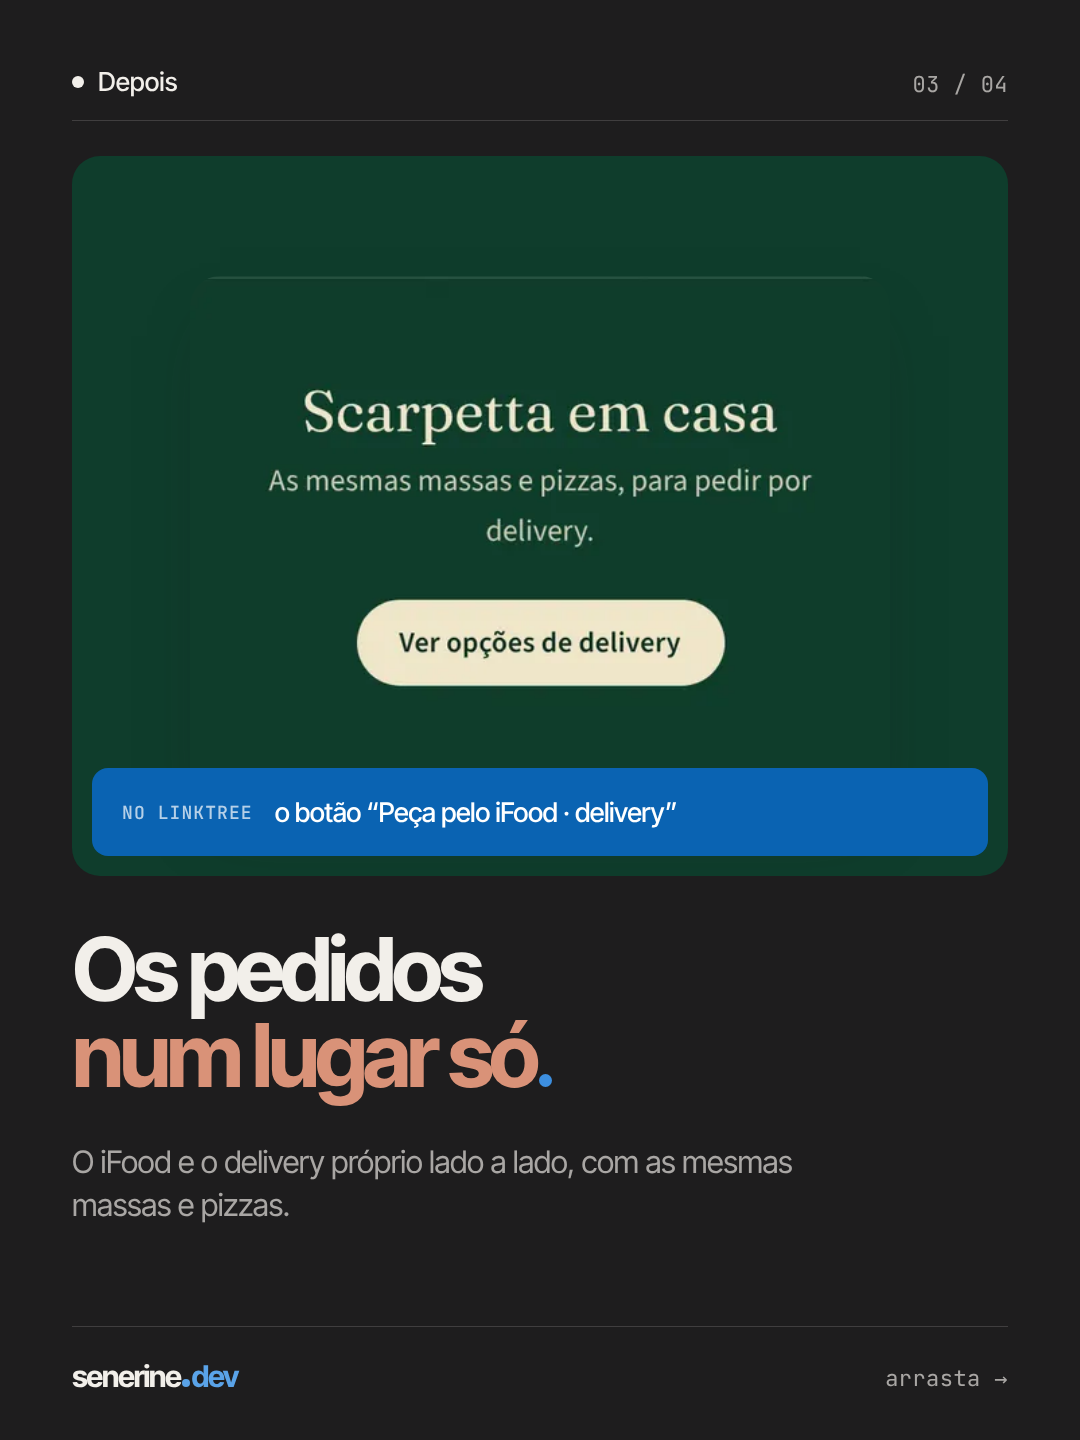
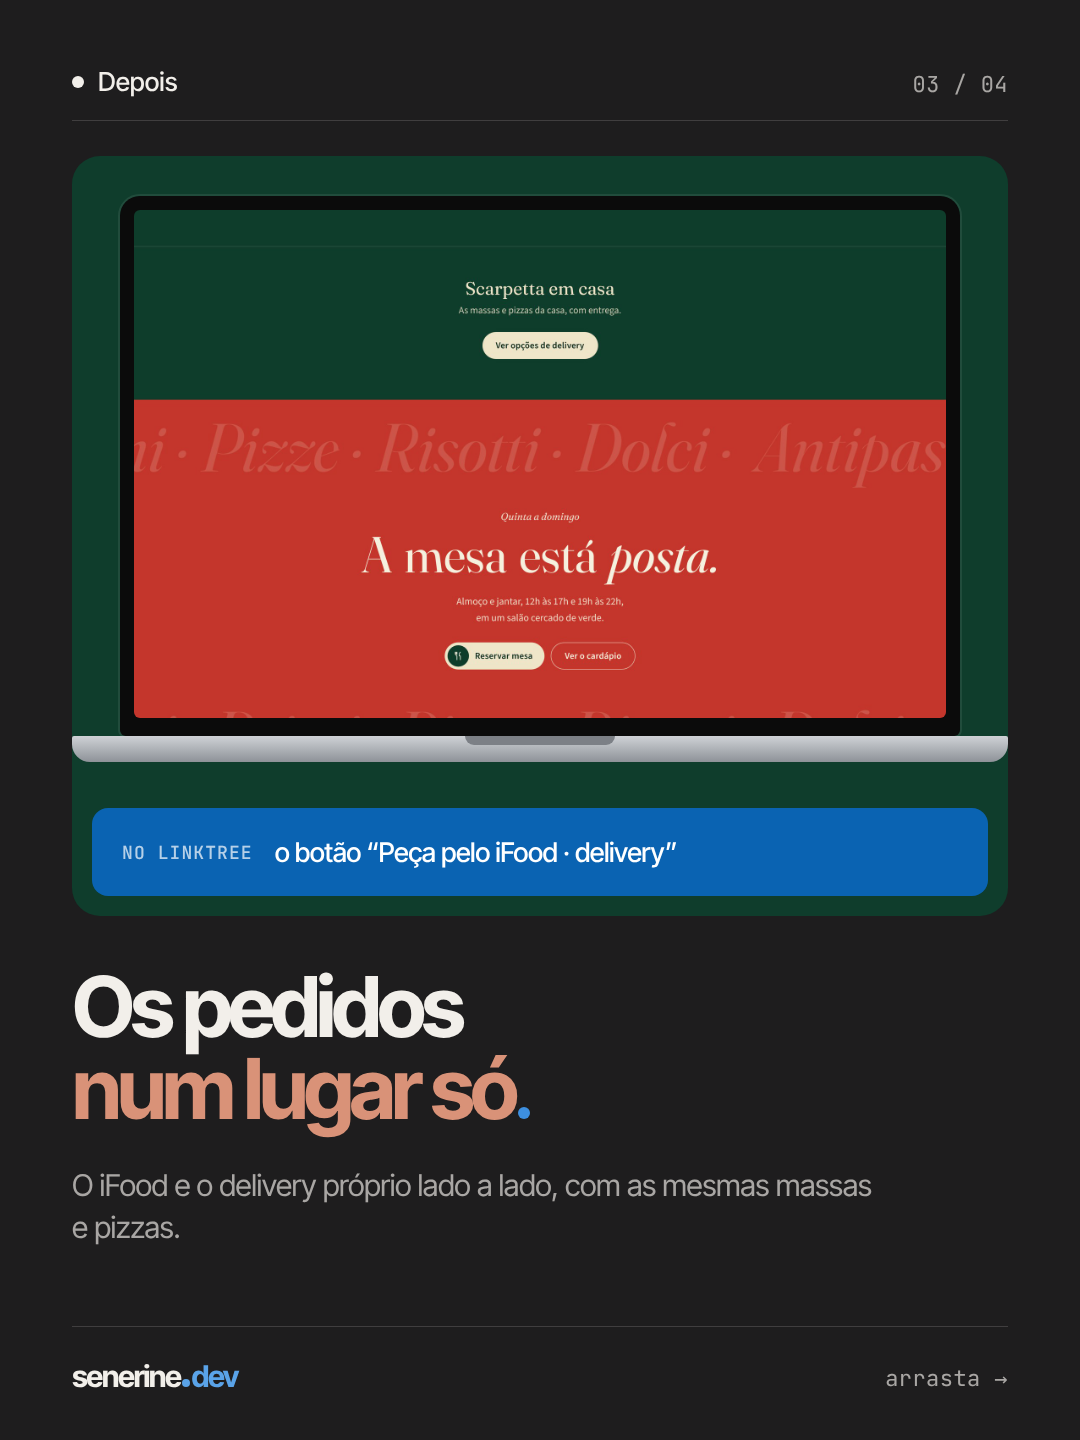
Case Scarpetta com o site num computador, maior no cartão
Capturas 1440x900 do site rodando local, no lugar das telas de celular.

Claude-Session: https://claude.ai/code/session_01P2gMEPFx4h5Snu2b9VrmuT

diff --git a/modelos/posts/scarpetta-case.py b/modelos/posts/scarpetta-case.py
@@ -20,18 +20,25 @@ body { width:1080px; background:#000; font-family:"Inter Tight",sans-serif; }
 .logo span { color:#5aa3e8; }
 .logo i { display:inline-block; width:8px; height:8px; border-radius:50%; background:#5aa3e8; margin:0 1px 0 2px; }
 .swipe { right:72px; top:1364px; color:var(--muted); }
-.card { left:72px; right:72px; top:156px; height:720px; border-radius:28px; overflow:hidden; background:#f2efea; color:#1e1d1e; }
+.card { left:72px; right:72px; top:156px; height:760px; border-radius:28px; overflow:hidden; background:#f2efea; color:#1e1d1e; }
 .card > * { position:absolute; }
 .band { left:20px; right:20px; bottom:20px; height:88px; border-radius:16px; background:var(--blue); color:#fff; display:flex; align-items:center; gap:22px; padding:0 30px; font-size:27px; font-weight:500; letter-spacing:-.02em; z-index:10; }
 .band .mono { font-size:18px; letter-spacing:.06em; text-transform:uppercase; opacity:.7; flex:none; }
-.t { left:72px; right:72px; top:926px; font-size:88px; font-weight:700; line-height:.98; letter-spacing:-.055em; }
+.t { left:72px; right:72px; top:966px; font-size:84px; font-weight:700; line-height:.98; letter-spacing:-.055em; }
 .t em { font-style:normal; color:var(--warm); }
 .dot { display:inline-block; width:.15em; height:.15em; border-radius:50%; background:#3d8fe0; margin-left:.04em; }
-.p { left:72px; width:820px; top:1140px; font-size:31px; line-height:1.4; color:var(--muted); letter-spacing:-.015em; }
+.p { left:72px; width:820px; top:1164px; font-size:30px; line-height:1.4; color:var(--muted); letter-spacing:-.015em; }
 .scr { border-radius:30px; overflow:hidden; box-shadow:0 30px 60px -30px rgba(30,29,30,.55); }
 .scr img { position:absolute; left:0; display:block; }
 .ui { font-family:"Inter Tight",sans-serif; }
 .scr img { width:100%; top:0; }
+.laptop { z-index:2; }
+.laptop .tela { position:relative; background:#0b0b0b; border-radius:20px 20px 6px 6px; padding:14px 14px 18px; outline:2px solid rgba(255,255,255,.08); }
+.laptop .tela img { display:block; width:100%; border-radius:6px; }
+.laptop .base { position:relative; height:26px; margin:0 -48px; border-radius:2px 2px 18px 18px; background:linear-gradient(#cfd2d6,#8e9298); }
+.laptop .base::before { content:""; position:absolute; left:50%; top:0; width:150px; height:9px; margin-left:-75px; border-radius:0 0 10px 10px; background:#7c8086; }
+.phone { position:absolute; z-index:3; border-radius:40px; padding:9px; background:#0b0b0b; outline:2px solid rgba(255,255,255,.1); }
+.phone img { display:block; width:100%; border-radius:32px; }
 .cap { font-family:"JetBrains Mono",monospace; font-size:18px; letter-spacing:.06em; text-transform:uppercase; color:#efe5c8; opacity:.75; }
 </style></head><body>
 '''
@@ -68,11 +75,20 @@ def centro(src, w=420, h=600):
     return tela(src, (936 - w) // 2, 40, w, h)
 
 
+def laptop(img, w=840, top=40):
+    """O site no computador: captura real a 1440x900 dentro de uma tela com base."""
+    return f'<div class="laptop" style="left:{(936 - w) // 2}px;top:{top}px;width:{w}px"><div class="tela"><img src="{C}desktop-{img}.jpg"></div><div class="base"></div></div>'
+
+
+def celular(src, left, top, w, extra=""):
+    return f'<div class="phone" style="left:{left}px;top:{top}px;width:{w}px;{extra}"><img src="{C}{src}"></div>'
+
+
 out = [HEAD.replace('href="../../fontes/fontes.css"', 'href="../../fontes/fontes.css"')]
 
 # 1 · capa: o antes e o depois lado a lado no cartão verde
 out.append(shell(1, "Case · Scarpetta Cucina", "senerine.dev", f"""<div class="card" style="background:{VERDE}">
-    {tela("linktree-sem-cidade.png", 70, 40, 360, 600, "filter:grayscale(1);opacity:.8")}{tela("site.webp", 506, 40, 360, 600)}
+    {laptop("topo", 820, 40)}{celular("linktree-sem-cidade.png", 30, 300, 210, "filter:grayscale(1);rotate:-6deg")}
     <div class="band"><span class="mono">Cliente real</span><span>Cozinha italiana afetiva.</span></div></div>
   <h2 class="t">Do Linktree ao site<br><em>com a cara da casa</em><span class="dot"></span></h2>
   <p class="p">Como o link da bio da Scarpetta virou um site com cardápio, reserva e o salão.</p>"""))
@@ -86,25 +102,25 @@ out.append(shell(2, "Índice", "4 trocas", f"""<h2 class="t" style="top:170px">C
   <p class="p" style="top:1080px">Nada do que o cliente já usava se perdeu. Só mudou de casa.</p>"""))
 
 # 3 · antes
-out.append(detail(3, "Antes", "o link da bio", f'<div style="position:absolute;inset:0;background:#e9ebef"></div>' + centro("linktree-sem-cidade.png"), "Antes",
+out.append(detail(3, "Antes", "o link da bio", f'<div style="position:absolute;inset:0;background:#e9ebef"></div>' + celular("linktree-sem-cidade.png", 298, 40, 340), "Antes",
     "Botões cinza, sem prato e sem foto.", "O link da bio<br>era <em>um Linktree</em>",
     "Uma lista igual à de qualquer perfil. Cada toque mandava o cliente pra outro lugar.", PAPEL))
 
 # 4 a 7 · as trocas
 trocas = [
-    ("Reservas", "reserva.webp", "A reserva<br><em>chega pronta</em>", "O cliente escolhe dia, horário e pessoas, e o WhatsApp da casa recebe a mensagem completa."),
-    ("Menu", "cardapio.webp", "O cardápio<br><em>com foto e preço</em>", "Pratos com foto, descrição e preço, separados por categoria, com os destaques da casa no topo."),
-    ("Peça pelo iFood · delivery", "delivery.webp", "Os pedidos<br><em>num lugar só</em>", "O iFood e o delivery próprio lado a lado, com as mesmas massas e pizzas."),
-    ("Eventos", "eventos.webp", "Eventos<br><em>com orçamento</em>", "As ocasiões, como o menu é servido e o pedido de orçamento por WhatsApp ou e-mail."),
+    ("Reservas", "reserva", "A reserva<br><em>chega pronta</em>", "O cliente escolhe dia, horário e pessoas, e o WhatsApp da casa recebe a mensagem completa."),
+    ("Menu", "cardapio", "O cardápio<br><em>com foto e preço</em>", "Pratos com foto, descrição e preço, separados por categoria, com os destaques da casa no topo."),
+    ("Peça pelo iFood · delivery", "delivery", "Os pedidos<br><em>num lugar só</em>", "O iFood e o delivery próprio lado a lado, com as mesmas massas e pizzas."),
+    ("Eventos", "eventos", "Eventos<br><em>com orçamento</em>", "As ocasiões, como o menu é servido e o pedido de orçamento por WhatsApp ou e-mail."),
 ]
 for i, (de, img, t, p) in enumerate(trocas):
-    arte = (tela(img, 118, 120, 700, 538) if img == "delivery.webp" else centro(img))
+    arte = laptop(img)
     out.append(detail(4 + i, "Depois", f"{i + 1:02d} / 04", arte, "No Linktree", f"o botão “{de}”", t, p))
 
 # 8 · o que o linktree não mostrava
-out.append(detail(8, "Depois", "bônus", tela("executivo.webp", 70, 40, 380, 600) + tela("salao.webp", 486, 40, 380, 600), "Antes",
-    "Nenhum prato, nenhuma foto do salão.", "O prato, o preço<br><em>e o salão</em>",
-    "O menu executivo da semana e o salão no meio da mata, antes do primeiro contato.", NOITE))
+out.append(detail(8, "Depois", "bônus", laptop("salao"), "Antes",
+    "Nenhuma foto do salão nem dos pratos.", "O salão<br><em>no meio da mata</em>",
+    "As fotos do lugar, o menu executivo da semana e os pratos, antes do primeiro contato.", NOITE))
 
 # 9 · ficha técnica e decisões, como nos cases do portfólio
 dec = ["A reserva monta a mensagem pronta pro WhatsApp da casa.", "Aviso de aberto ou fechado agora, turno por turno.",

diff --git a/formatos/post.md b/formatos/post.md
@@ -46,7 +46,7 @@ Renderizar: `node modelos/render.mjs <html> <saida> 1080 1440 <n>` (acrescente `
 - Grade rígida: tudo alinhado na mesma margem e nas mesmas alturas.
 
 ## Não funciona
-- **Case de cliente bagunçado** (Scarpetta, primeira versão): celulares girados, rabiscos, botões riscados e notas à mão espalhadas: "muito bagunçado, deixe mais bonitinho". Mesmo a versão limpa não bastou: **case de cliente usa o padrão dos primeiros posts / do portfólio** (`scarpetta-case.py`, base `senerine-capturas.py`): fundo escuro da senerine, cabeçalho com rótulo e fólio, cartão com a captura real na cor da casa, faixa azul com rótulo, título com o ponto, texto, rodapé com logo; índice numerado, ficha técnica com decisões e o bloco de contato com a foto no ponto.
+- **Case de cliente bagunçado** (Scarpetta, primeira versão): celulares girados, rabiscos, botões riscados e notas à mão espalhadas: "muito bagunçado, deixe mais bonitinho". Mesmo a versão limpa não bastou: **case de cliente usa o padrão dos primeiros posts / do portfólio** (`scarpetta-case.py`, base `senerine-capturas.py`): fundo escuro da senerine, cabeçalho com rótulo e fólio, cartão com a captura real na cor da casa (**o site num computador**, captura 1440x900 do site rodando local; o celular só pro Linktree/antes: "muito simples, aumente o plano do site, coloque num computador"), faixa azul com rótulo, título com o ponto, texto, rodapé com logo; índice numerado, ficha técnica com decisões e o bloco de contato com a foto no ponto.
 - Copiar a base de outro designer sem adaptar (as versões "Pixel" e "Nexora" foram "bem ruim" e "ruizinho").
 - **Cara de IA**: elementos desalinhados, cartões com ícone, enfeite sem função.
 - Slide que não acrescenta (o slide da "aba" foi cortado).

diff --git a/elementos/README.md b/elementos/README.md
@@ -71,4 +71,4 @@ Capturas reais do senerine.dev (celular @3x, 390 px de largura) e a foto do Leon
 Memes e músicas usados nos reels ficam em `elementos/terceiros/`, que o `.gitignore` não envia (direitos de terceiros). Peça os arquivos de novo ao Leonardo se precisar.
 
 ## clientes/
-Capturas reais dos sites de clientes, por pasta. `scarpetta/`: telas do site no celular (da página de proposta do repositório Scarpetta) e o Linktree antigo com a cidade apagada (`linktree-sem-cidade.png`). Não usar `visite` nem a captura original do Linktree: mostram a cidade.
+Capturas reais dos sites de clientes, por pasta. `scarpetta/`: `desktop-*.jpg` (o site no computador, 1440x900 a 2x, rodando o repositório com `npx vite`), telas do site no celular (da página de proposta do repositório Scarpetta) e o Linktree antigo com a cidade apagada (`linktree-sem-cidade.png`). Não usar `visite` nem a captura original do Linktree: mostram a cidade.
